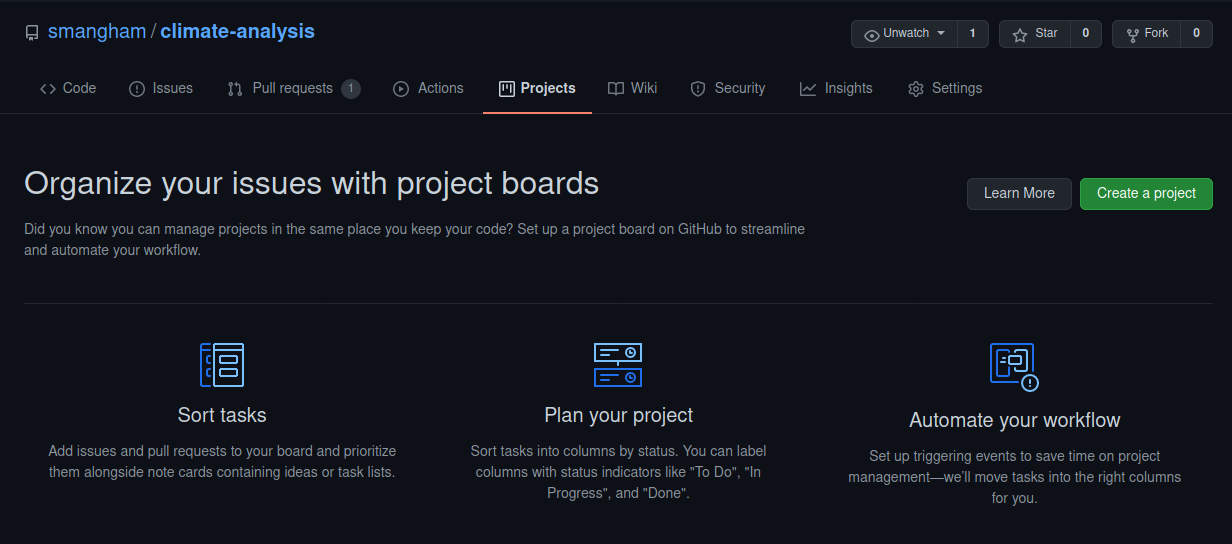
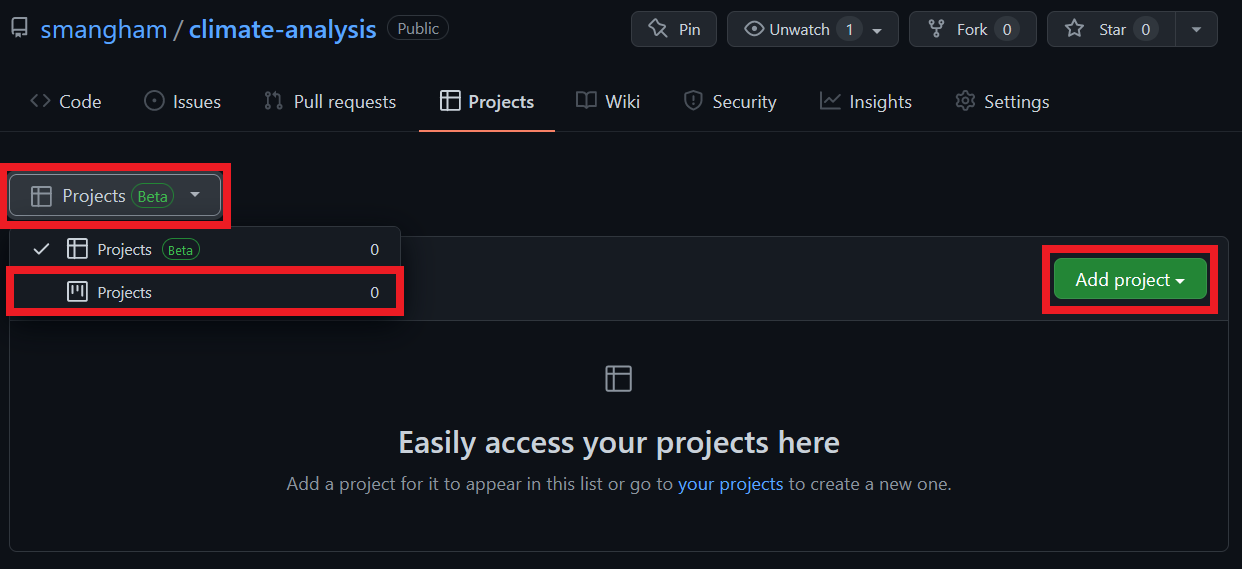
Updated materials to new project board format

diff --git a/_episodes/06-project.md b/_episodes/06-project.md
@@ -16,26 +16,42 @@ keypoints:
 
 Now we've seen all the steps involved in developing sustainable code, let's put that knowledge into practise.
 
+Earlier, we made a fork of the [project-novice-demo](https://github.com/Southampton-RSG-Training/project-novice-demo) repository. The code there is pretty bad - it's written in a very unsustainable way that makes future development harder (and passing the project on to another researcher even harder!). However, as a published project owned by somebody else, we don't have the permissions required to edit it and fix the problems.
+
+Fortunately, we've already forked it, so we can set up a small project to improve it. We want to find the problems, record them as **Issues**, then fix the issues.
+
+The first thing we can spot is that there's no `dev` branch - only a `master` one:
+
+![Current branches](../fig/06-project/branch-list.png)
+
+As we mentioned earlier, this makes it difficult to work as part of a team, or to have a stable version to distribute whilst you continue working on the code. So let's make an Issue for this as we showed in the [Issues](../fig/02-issues/index.html) section:
+
+![Creating an Issue for the dev branch](../fig/06-project/create-issue.png)
+
+Now we're starting to log issues with our code, we want to be able to keep track of them, so we make a new project board as we showed in the [Project Management](../03-boards/index.html) section:
+
+![Dragging an Issue onto a project board](../fig/06-project/project-new.png)
+![Dragging an Issue onto a project board](../fig/06-project/project-next.png)
+![Dragging an Issue onto a project board](../fig/06-project/project-created.png)
+
+Finally, we put the issue we just raised onto the project board we just set up:
+
+![Dragging an Issue onto a project board](../fig/06-project/create-issue-next.png)
+
+We've now practised the workflow we identified earlier on a new repository.
+
 > ## Identifying issues
->
-> Earlier, we made a fork of the `rf4` repository. The code there is pretty bad- it's written in a very unsustainable way that makes future development harder (and passing the project on to another researcher even harder!). However, as a published project owned by somebody else, we don't have the permissions required to edit it and fix the problems.
->
-> Fortunately, we have already forked it, and now we're going to set up a small project to improve it. Take a look at your fork of the `rf4` repository, identify three problems with the code, and raise them as issues. Forks don't have **Issues** by default, but you can enable them using **Settings -> Options -> Features**.
->
-> Don't try to run the code- there's more than enough things wrong with it that you can spot just from a quick read-through.
->
-> Once you've got your issues, create a kanban board on the repo and place them on it.
+> We've identified one problem with the code - the lack of a `dev` branch. Have a quick look through the project, and identify two more problems and raise them as issues then put them on our project board. Don't try to run the code- there's more than enough things wrong with it that you can spot just from a quick read-through.
 >
 > > ## Solution
 > >
 > > There's too many things wrong to provide an exhaustive list, but here's a few you may have spotted:
 > > * No stable releases
-> > * No development branch
 > > * Unclear commit messages
 > > * `LICENSE.md` is empty
 > > * `README.md` has an inaccurate list of files
 > > * `README.md` contains broken links
-> > * `What questions do we want to answer with this data?` is unfinished
+> > * `What questions do we want to answer with this data` is unfinished
 > > * Multiple versions of the same file in the repository
 > > * Poorly-named functions (e.g. `add_column5`)
 > > * Poorly-named variables (e.g. `df47`)
@@ -44,19 +60,69 @@ Now we've seen all the steps involved in developing sustainable code, let's put 
 > {: .solution}
 {: .challenge}
 
+Now that we've identified some of the many, many problems with the repository, we'd like to start fixing them. First, let's fix the issue with the lack of a `dev` branch. We'll clone the repository locally, create a new `dev` branch, and push it back to our fork:
+
+~~~
+$ git clone git@github.com:smangham/project-novice-demo
+~~~
+{: .language-bash}
+~~~
+Cloning into 'project-novice-demo'...
+remote: Enumerating objects: 28, done.
+remote: Counting objects: 100% (28/28), done.
+remote: Compressing objects: 100% (17/17), done.
+remote: Total 28 (delta 13), reused 20 (delta 10), pack-reused 0
+Receiving objects: 100% (28/28), 8.32 KiB | 8.32 MiB/s, done.
+Resolving deltas: 100% (13/13), done.
+~~~
+{: .output}
+
+~~~
+$ cd project-novice-demo
+$ git checkout -b dev
+~~~
+{: .language-bash}
+~~~
+Switched to a new branch 'dev'
+~~~
+{: .output}
+
+~~~
+$ git push -u origin dev
+~~~
+{: .language-bash}
+~~~
+Total 0 (delta 0), reused 0 (delta 0), pack-reused 0
+remote:
+remote: Create a pull request for 'dev' on GitHub by visiting:
+remote:      https://github.com/smangham/project-novice-demo/pull/new/dev
+remote:
+To github.com:smangham/project-novice-demo
+ * [new branch]      dev -> dev
+branch 'dev' set up to track 'origin/dev'.
+~~~
+{: .output}
+
+Now, we can close our issue as fixed:
+
+![Closing an issue](../fig/06-project/close-issue.png)
+
+Then move it to the **Done** column on our project board:
+
+![Moving an issue to 'Done' on a project board](../fig/06-project/close-issue-project.png)
+
 > ## Solving problems
 > 
-> Now we've got a project board with all our problems in the To Do column, we can set about fixing one of the issues.
+> Now we've got a project board with all our problems in the To Do column, and a `dev` branch to work from, we can set about fixing one of the other issues.
 > 
-> We want to use the feature-branch workflow, so it would be easy to collaborate with other people. Pick one of your open issues, and fix it using the feature-branch workflow, then once it's done issue a release of your updated `master` branch!
+> Pick one of your open issues, and fix it using the feature-branch workflow, then once it's done issue a release of your updated `master` branch as we showed in the [Release Management](../04-release/index.html) section!
 >
 > > ## Solution
 > >
 > > In order to address the issue we chose, we'll need to do the following:
 > > * Move our issue from To Do to Work In Progress
-> > * Select our `master` branch, and create a `dev` branch coming off it
-> > * Select our `dev` branch, and create a new issue branch coming off it- you could call it `issue_<problem_description>` or similar
-> > * Switch to our issue branch, fix the issue, commit our fixes and push them
+> > * Select our `dev` branch, and create a new issue branch coming off it - you could call it `issue_<problem_description>` or similar
+> > * Switch to our issue branch, fix the issue, commit our fixes and push them to GitHub
 > > * Submit a pull request from our issue branch to `dev`
 > > * Close our issue on GitHub
 > > * When `dev` is up to date, submit a pull request from `dev` to `master`

diff --git a/_episodes/03-boards.md b/_episodes/03-boards.md
@@ -31,7 +31,7 @@ In industry, they often use formal project management styles for their boards wi
 
 There's a lot of sites that host project boards. For non-software projects like thesis-writing or organising conferences, you might use [Trello](https://trello.com), but repository hosting sites like GitHub and GitLab have built-in project boards that interact with the other features of the site, so we're going to use them (though other tools like [Jira](https://www.atlassian.com/software/jira) also offer this functionality). This episode will use GitHub as an example, but GitLab has almost identical functionality. 
 
-From the 'Project' tab on GitHub, we can start up a board with **Create a new project**. A repository can have multiple project boards on it- for example, if multiple PhD students have their own project working on a code, each can have a project board for their own changes, or you can create a new board for each paper.
+From the 'Project' tab on GitHub, we can start up a board on the repository by switching from the **Projects (Beta)** view to the normal **Projects** view, then clicking **New project**. A repository can have multiple project boards on it - for example, if multiple PhD students have their own project working on a code, each can have a project board for their own changes, or you can create a new board for each paper.
 
 ![Adding boards](../fig/03-boards/board-none.png)
 
@@ -98,7 +98,7 @@ Once your project board has a large number of cards on it, you might want to beg
 
 ## Feature-branch workflows
 
-We discussed feature-branch workflows yesterday, and they're a key part of good project management.
+We discussed feature-branch workflows in the **Version Control with Git** module, and they're a key part of good project management.
 
 ![Feature-branch workflow](../fig/03-boards/git-feature-branch.svg)
 
@@ -111,7 +111,7 @@ There's some best practise associated with the workflow:
 * Only pull from `dev` to `master` when you think `dev` is stable. This is the version people will be downloading to verify the results from your papers.
 
 In industry, there's normally strict testing criteria for when you merge in feature branches or merge `dev` into `master`. 
-That's a lot harder to apply in academia- in an experimental code, there is often no known ideal behaviour to test against,
+That's a lot harder to apply in academia - in an experimental code, there is often no known ideal behaviour to test against,
 and you expect your code's output to change as you alter the equations and assumptions.
 
 
@@ -121,7 +121,7 @@ and you expect your code's output to change as you alter the equations and assum
 
 For some large projects, or open-source projects, it's not practical to have all the collaborators working on the same repository. Multiple different developers might both create branches with the same name, leading to conflicts, and developers can end up with access to dozens of work-in-progress branches they don't know anything about. Others limit the ability of unauthorised users to push to the repository to prevent abuse, or accidental uploads of sensitive or restricted material. In these contexts, it makes more sense for **every collaborator to have their own fork**. Then, once they finish work on a feature branch, they can **submit a pull request back to the original**.
 
-We're going to create a fork of an existing repository- `swc-rf4`. [Go to the repository on GitHub](https://github.com/Southampton-RSG/swc-rf4), and click **Fork**. You can fork a repository to your own account, or any **Team** you have access to. For now, we'll clone a personal copy.
+We're going to create a fork of an existing repository- `project-novice-demo`. This is a demo of a badly-designed and maintained repo for us to explore and critique. [First, go to the demonstration repository on GitHub](https://github.com/Southampton-RSG-Training/project-novice-demo), and click **Fork**. You can fork a repository to your own account, or any **Team** you have access to. For now, we'll make a personal copy.
 
 ![Create a fork](../fig/04-features/fork-button.png)
 
@@ -130,5 +130,17 @@ As you can see, the fork looks and works just like a normal repository, but hand
 ![Created fork](../fig/04-features/fork-made.png)
 
 You may also be able to use forks to create modified versions of existing codes that better suit your needs, depending on their software license. It is good practise to submit your modifications and improvements back to the original, though.
+
+> ## For Future Use...
+>
+> Make sure you've forked [our demonstation repository](https://github.com/Southampton-RSG-Training/project-novice-demo)! We'll be coming back to it in a later episode.
+{: .callout}
+
+### Forks & Issues
+
+By default, forks don't have their own issues - the expectation is you'll create a fork to address issues on the original project. We're going to work independently on our forks, though, so we need to re-enable issues on our fork. Go to our repository's **Settings** tab, then scroll down to **Features** and tick **Issues**.
+
+![Toggled on issues](../fig/04-features/fork-issues.png)
+
 
 {% include links.md %}

diff --git a/setup.md b/setup.md
@@ -1,10 +1,23 @@
-## Project Managment Setup ##
+## Project Management Setup
 
 Before we get started, there are a few requirements to meet. You will need:
 
 * [A GitHub account](https://github.com), with ssh key access.
-* A GitHub repository titled `climate-analysis` (created in our **Version Control with git** training).
+* A GitHub repository titled `climate-analysis` (created in our **Version Control with Git** training).
 * A code editor (we recommend [Visual Studio Code](https://code.visualstudio.com/))
 
-If you haven't done our **Version Control with git** training and don't have a `climate-analysis` repository, you can create an empty one now. 
-No specific contents are required for this lesson.
+### Getting the Demo Repository
+
+If you haven't done our **Version Control with Git** training and don't have a `climate-analysis` repository, you can import a copy of it that's up-to-date.
+
+[Go to GitHub](https://github.com) and from the **+** icon on the top bar select **Import Repository** (or [go directly to it here](https://github.com/new/import):
+
+![Import repository option location](fig/setup/import-repository.png)
+
+Then, provide the demo repository [https://github.com/Southampton-RSG-Training/project-novice](https://github.com/Southampton-RSG-Training/project-novice) into the **Old Repository's Clone URL** field, and give it a name - e.g. `climate-analysis` or `project-novice-climate-analysis`, and click **Begin Import**:
+
+![Import repository screen](fig/setup/import-repository-next.png)
+
+Once you've begun the import process, it'll complete in anywhere from a few seconds to a few minutes; then you can click the link to go straight to your new copy:
+
+![Repository successfully imported](fig/setup/import-repository-final.png)
